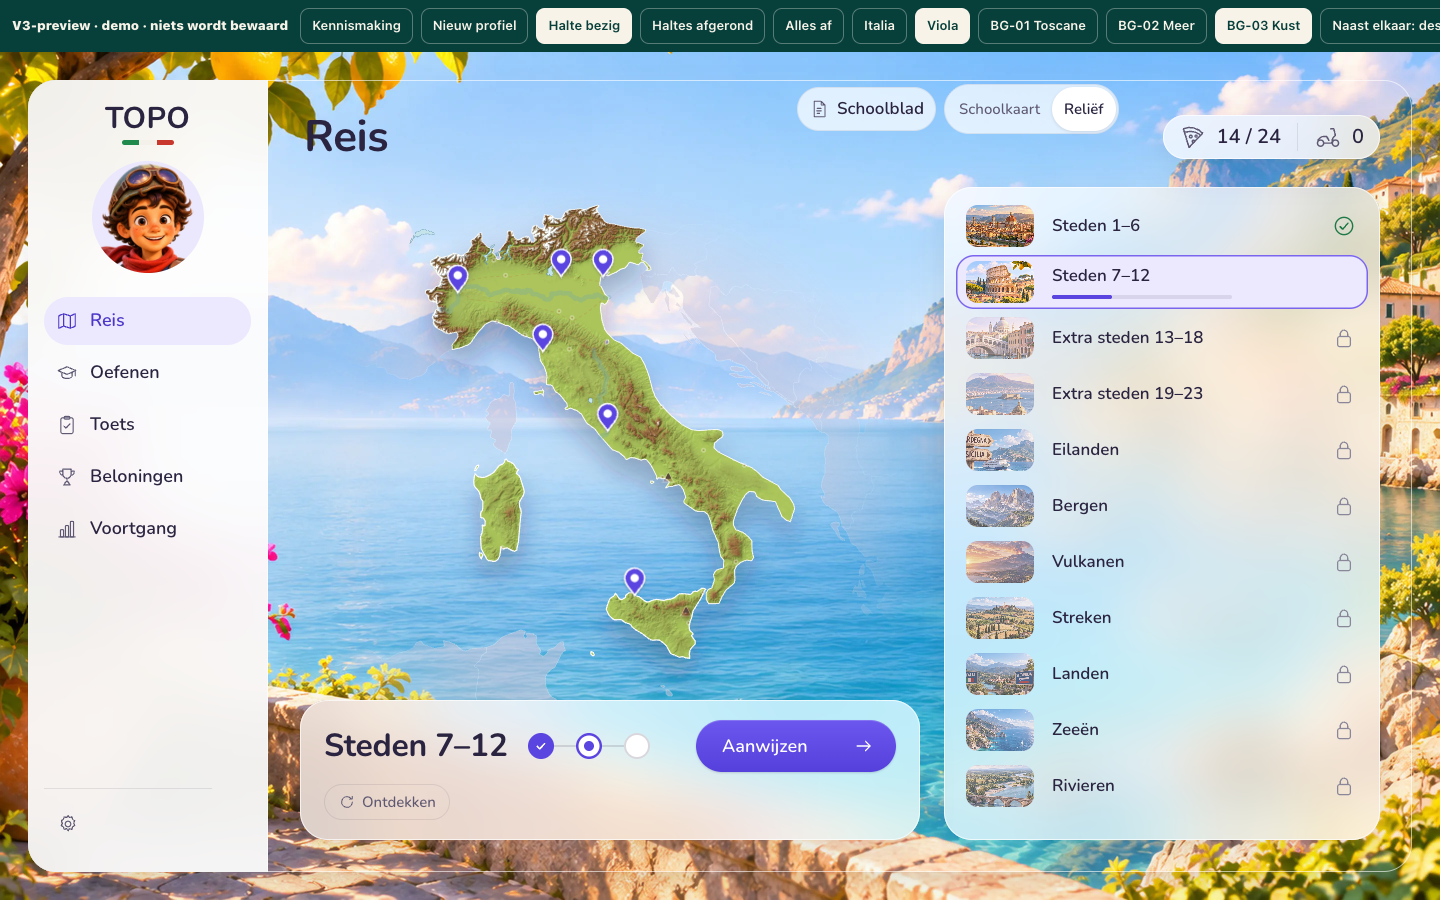
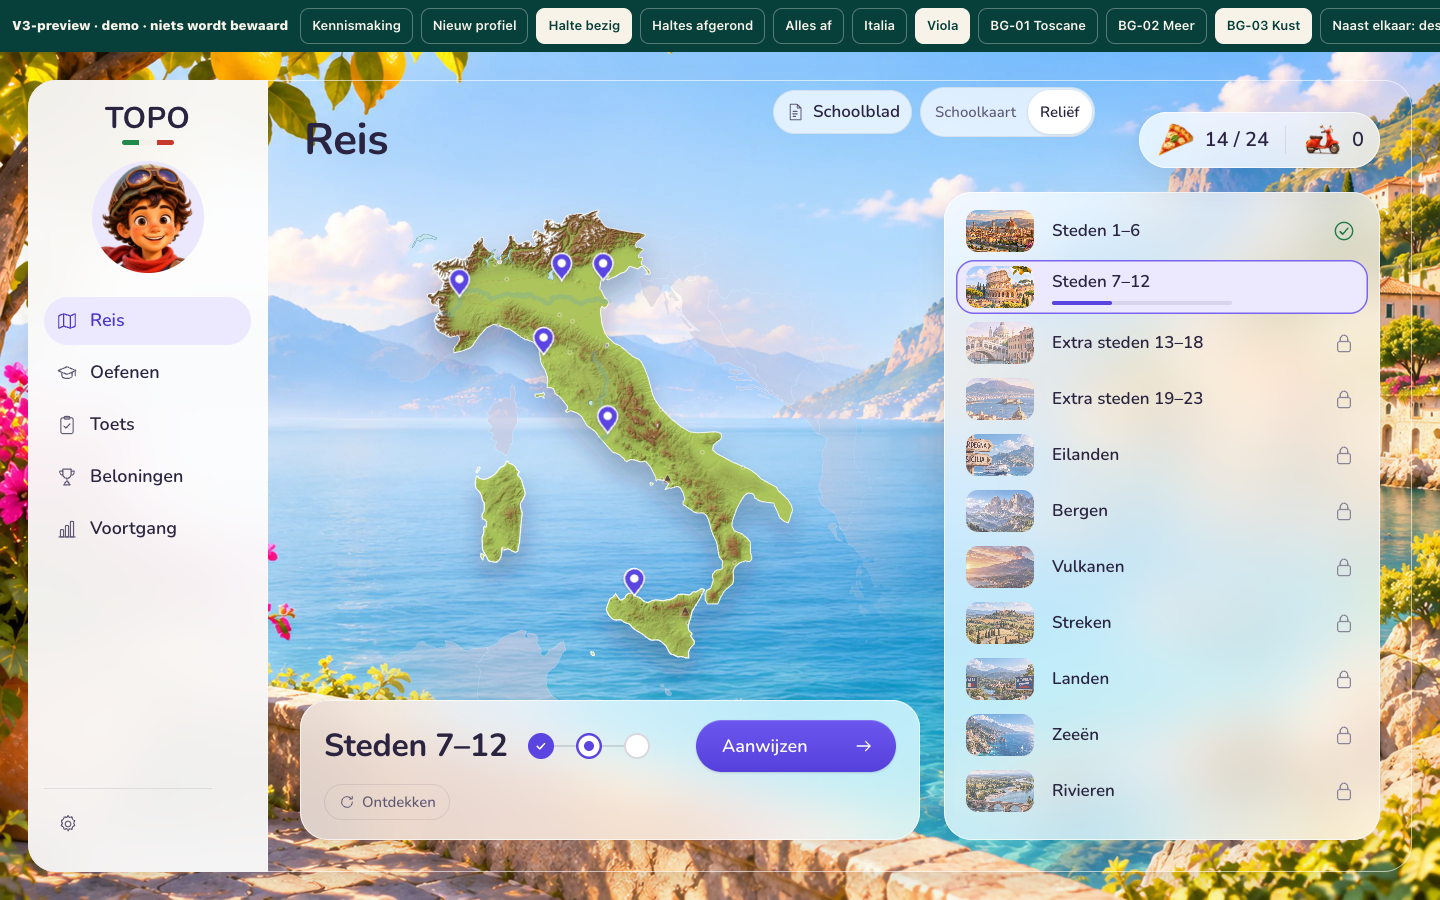
fix(v3): gebruik geïllustreerde pizza- en Vespatellers (ronde 3 punt 10)

diff --git a/scripts/v3/reis.js b/scripts/v3/reis.js
@@ -204,8 +204,8 @@
  function renderTop(m){
   const cycle=(state.pizzas%3)*8+state.slices;
   const pz=make('span','v3Count');pz.setAttribute('aria-label',cycle+' van 24 pizzapunten tot de volgende Vespa-rit');
-  pz.append(icon('v3slice'),make('b',null,cycle+' / 24'));
-  const trip=make('span','v3Count');trip.setAttribute('aria-label',state.trips+' Vespa-ritten');trip.append(icon('v3scooter'),make('b',null,String(state.trips)));
+  pz.append(pic(V3ART.icons.slice,'v3CountArt',40,40),make('b',null,cycle+' / 24'));
+  const trip=make('span','v3Count');trip.setAttribute('aria-label',state.trips+' Vespa-ritten');trip.append(pic(V3ART.icons.vespa,'v3CountArt',40,40),make('b',null,String(state.trips)));
   const counts=make('div','v3Counts');counts.append(pz,make('i','v3CountSep'),trip);
   top.replaceChildren(tools,counts);
  }

diff --git a/scripts/v3/ronde3.css b/scripts/v3/ronde3.css
@@ -58,3 +58,5 @@ body.v3Les :is(#quiz,#focusAnswerSheet) #message.good{background:#eee8ff;color:#
 body.v3Les :is(#quiz,#focusAnswerSheet) #message.bad{background:#fae8f1;color:#902345}
 body.v3Les #answer{border-color:#c7b6ee;color:var(--v3-ink);background:#ffffffd9}
 body.v3Les #answer:focus-visible{outline:3px solid #9675f5;outline-offset:2px}
+
+.v3Counts .v3CountArt{width:40px;height:40px;object-fit:contain;flex:none}

diff --git a/scripts/qa-v3-ronde3.py b/scripts/qa-v3-ronde3.py
@@ -19,6 +19,9 @@ async def check(p,n,touch):
   assert (await p.locator('.v3Switch button').first.bounding_box())['height']>=44
   await act(p,'.v3MapTools [data-relief=true]',touch)
   assert await p.locator('.v3MapStage .v3Map').get_attribute('data-relief')=='on'
+ if n==10:
+  assert await p.locator('.v3Counts .v3CountArt').count()==2
+  assert await p.locator('.v3Counts .v3CountArt').evaluate_all('ns=>ns.every(n=>n.complete&&n.naturalWidth>0)')
  if n==9:
   await p.evaluate('TOPO_V3.shell.practice("point","city1")');await p.wait_for_timeout(700)
   item=await p.evaluate('state.current.id')
